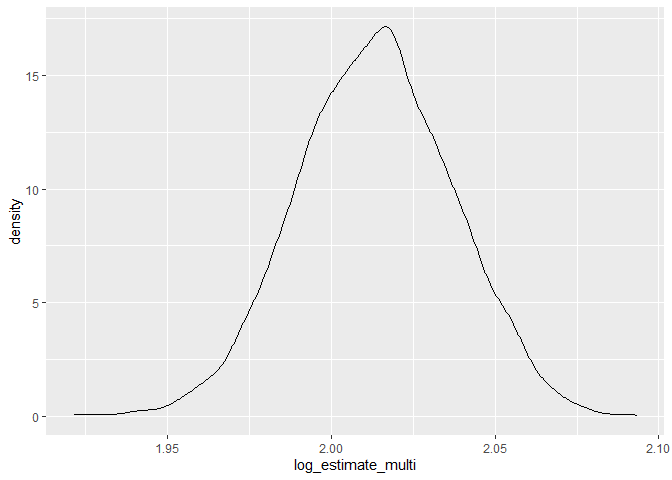
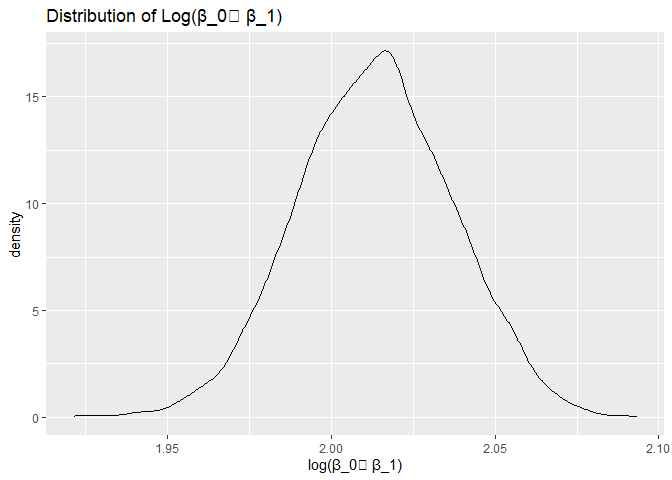
add x labs and title to plots

diff --git a/p8105_hw6_yj2622.md b/p8105_hw6_yj2622.md
@@ -399,7 +399,11 @@ Make plot to see the distribution of r^2
 ``` r
 weather_boot_results %>% 
   ggplot(aes(x = r.squared)) +
-  geom_density()
+  geom_density() +
+  labs(
+    x = "r-square",
+    title = "Distribution of R-Square"
+  )
 ```
 
 ![](p8105_hw6_yj2622_files/figure-gfm/unnamed-chunk-16-1.png)<!-- -->
@@ -414,7 +418,11 @@ And make another plot to see the distribution of log(β\_0∗β\_1)
 ``` r
 weather_boot_results %>% 
   ggplot(aes(x = log_estimate_multi)) +
-  geom_density()
+  geom_density() +
+  labs(
+    x = "log(β_0\u2217 β_1)",
+    title = "Distribution of Log(β_0\u2217 β_1)"
+  )
 ```
 
 ![](p8105_hw6_yj2622_files/figure-gfm/unnamed-chunk-17-1.png)<!-- -->
@@ -446,3 +454,5 @@ weather_boot_results %>%
     ##   <chr>                 <dbl>    <dbl>
     ## 1 log_estimate_multi    1.97     2.06 
     ## 2 r.squared             0.894    0.927
+
+The 95% CI for r^2 is (0.894, 0.927) and log(β\_0∗β\_1) is (1.97, 2.06).
